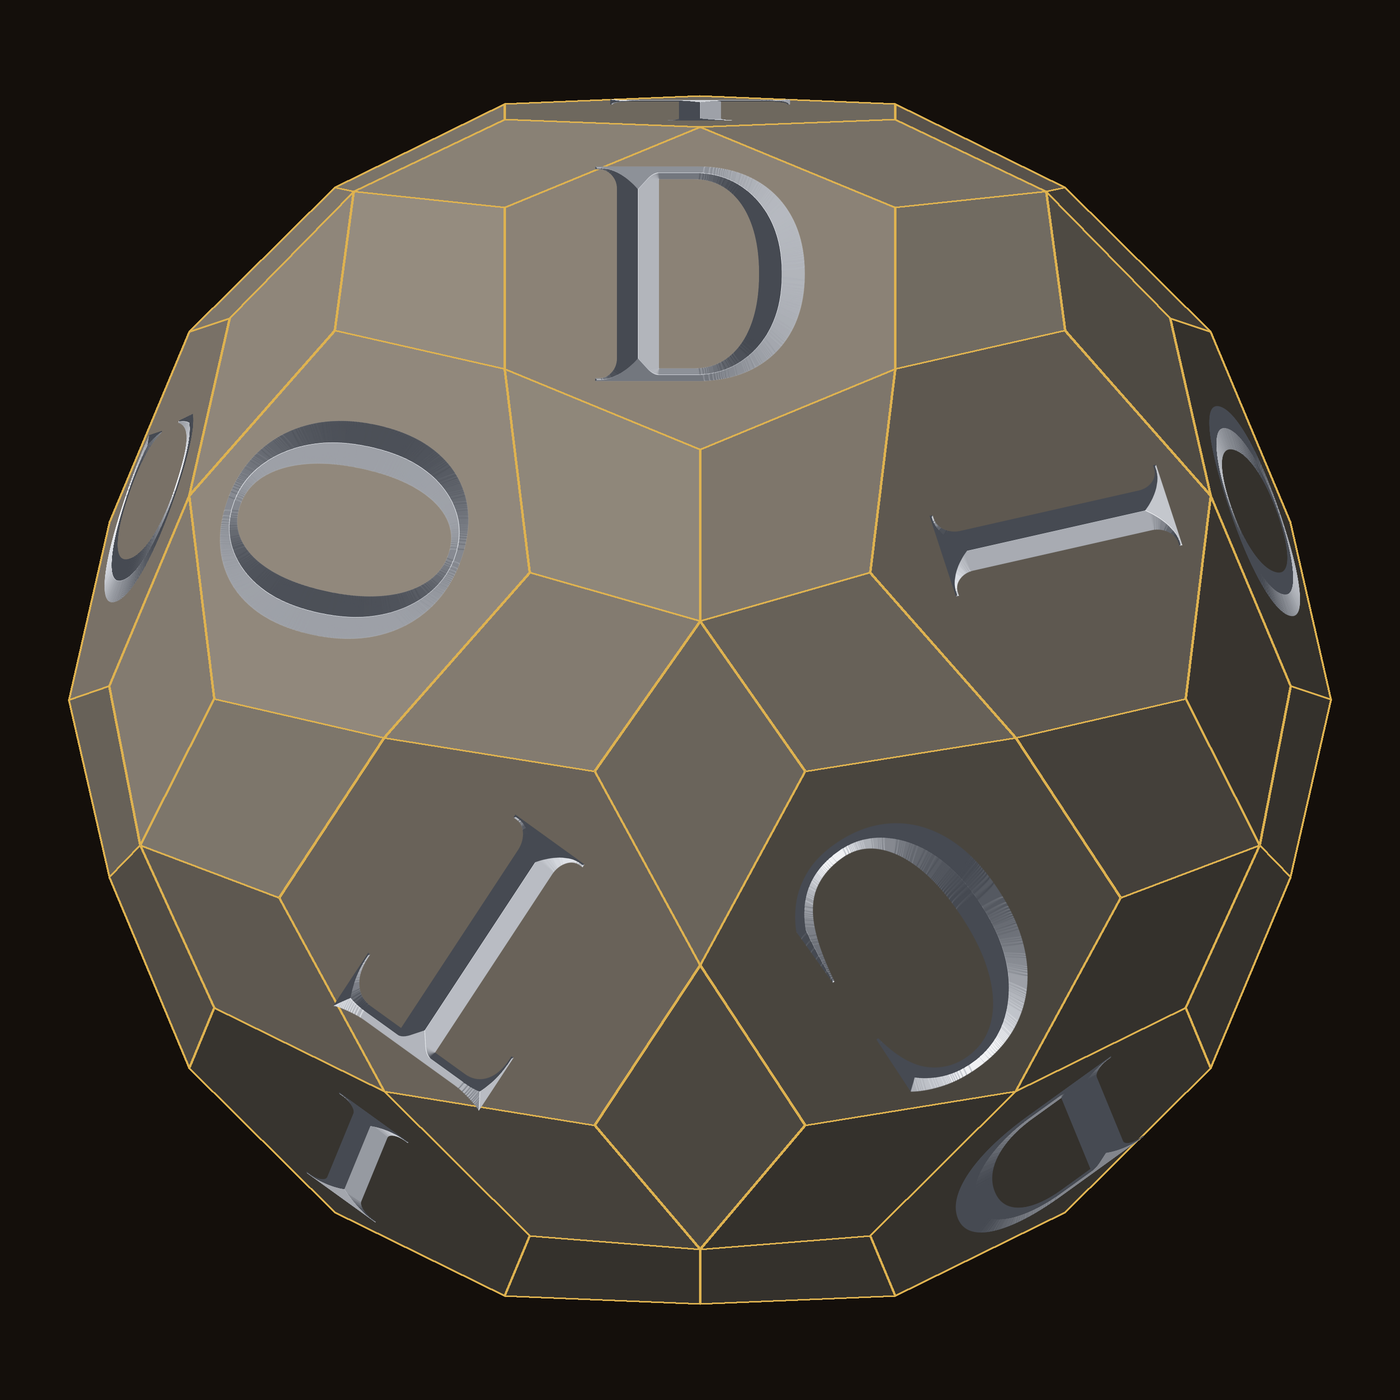
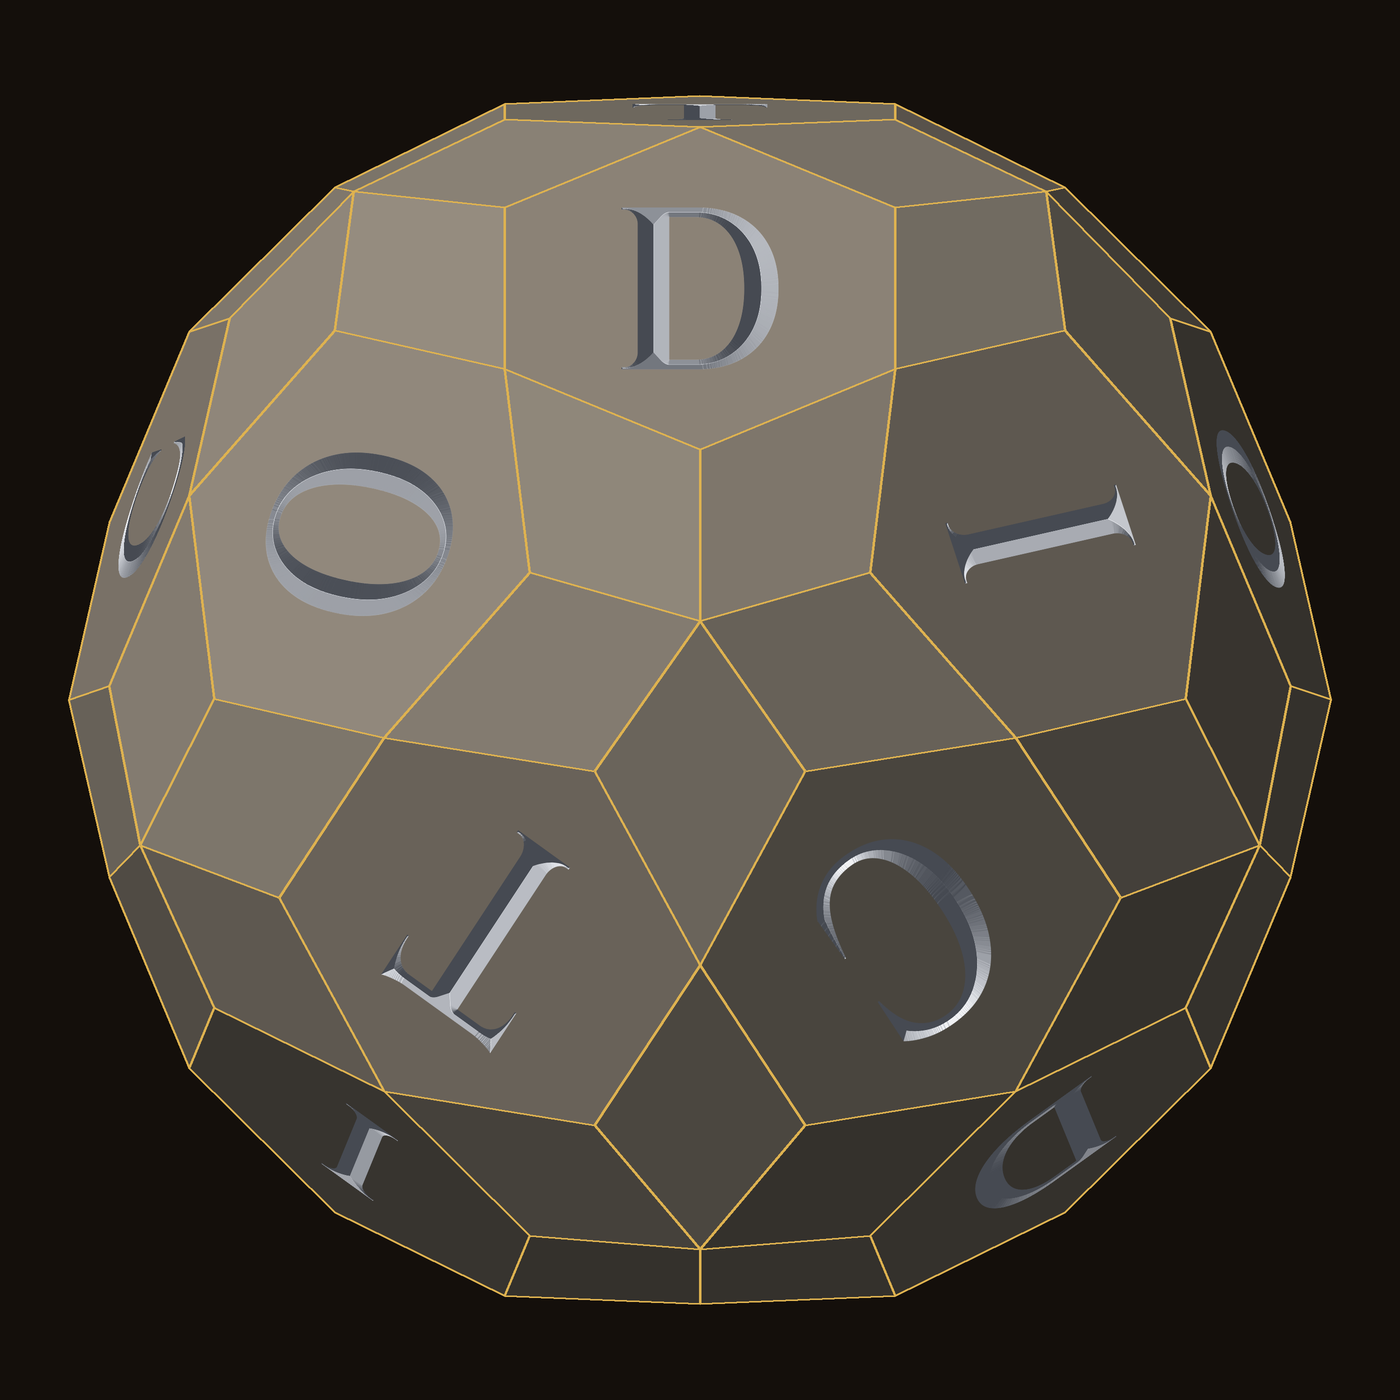
OG letters: smaller, each centred by its own ink in the hexagon (no bobbing) (DICTO)

diff --git a/studies/2026-10-22-dicto-square/og_star_letters.py b/studies/2026-10-22-dicto-square/og_star_letters.py
@@ -1,0 +1,73 @@
+# Can the OG's 20 hexagons be lettered so that round EVERY five-kite star (12 of them) the five hexagons read
+# D-I-C-T-O clockwise (seen from outside), each star a cyclic shift, like the rows of the DICTO square?
+import json, itertools, numpy as np
+G=json.load(open('og-geometry.json')); V=np.array(G['v']); F=G['f']
+deg={}
+for f in F:
+    if len(f)==4:
+        for q in f: deg[q]=deg.get(q,0)+1
+stars=[q for q in deg if deg[q]==5]; assert len(stars)==12
+H=[f for f in F if len(f)==6]; C=np.array([V[f].mean(0) for f in H])
+rings=[]
+for s in stars:
+    a=V[s]/np.linalg.norm(V[s]); d=np.linalg.norm(C/np.linalg.norm(C,axis=1)[:,None]-a,axis=1)
+    ring=list(np.argsort(d)[:5])
+    # clockwise seen from outside (looking along -a)
+    e1=np.cross(a,[0.3,0.5,0.8]); e1/=np.linalg.norm(e1); e2=np.cross(a,e1)
+    ang=[np.arctan2(C[i]@e2,C[i]@e1) for i in ring]
+    ring=[ring[i] for i in np.argsort(ang)[::-1]]       # decreasing angle = clockwise from outside
+    rings.append(ring)
+assert sorted(sum(rings,[]))==sorted(list(range(20))*3)   # every hexagon round exactly 3 stars
+def solve(order):
+    sols=[]
+    def rec(k,L):
+        if k==len(rings): sols.append(dict(L)); return
+        r=rings[k]
+        for sh in range(5):
+            want={r[i]:order[(i+sh)%5] for i in range(5)}
+            if all(L.get(h,c)==c for h,c in want.items()):
+                L2=dict(L); L2.update(want); rec(k+1,L2)
+    rec(0,{}); return sols
+cw=solve('DICTO'); print('clockwise D-I-C-T-O round every star:', len(cw), 'letterings')
+acw=solve('OTCID'); print('anticlockwise round every star:', len(acw))
+# mixed: each star either way
+def solve_mixed():
+    n=0
+    def rec(k,L):
+        nonlocal n
+        if k==len(rings): n+=1; return
+        r=rings[k]
+        for order in ('DICTO','OTCID'):
+            for sh in range(5):
+                want={r[i]:order[(i+sh)%5] for i in range(5)}
+                if all(L.get(h,c)==c for h,c in want.items()):
+                    L2=dict(L); L2.update(want); rec(k+1,L2)
+    rec(0,{}); return n
+print('each star D-I-C-T-O one way or the other:', solve_mixed())
+# check of the search: letterings where every star merely has all five letters (any order) = 2 compounds x 5! = 240
+def solve_any():
+    n=0
+    def rec(k,L):
+        nonlocal n
+        if k==len(rings): n+=1; return
+        r=rings[k]; fixed={h:L[h] for h in r if h in L}
+        free=[h for h in r if h not in L]; left=[c for c in 'DICTO' if c not in fixed.values()]
+        if len(set(fixed.values()))<len(fixed): return
+        for p in itertools.permutations(left):
+            L2=dict(L); L2.update(dict(zip(free,p))); rec(k+1,L2)
+    rec(0,{}); return n
+print('check, every star has all five letters:', solve_any())
+# which orders do occur round the stars in the compound lettering?
+sol=[]
+def rec(k,L):
+    if sol: return
+    if k==len(rings): sol.append(L); return
+    r=rings[k]; fixed={h:L[h] for h in r if h in L}; free=[h for h in r if h not in L]; left=[c for c in 'DICTO' if c not in fixed.values()]
+    if len(set(fixed.values()))<len(fixed): return
+    for p in itertools.permutations(left):
+        L2=dict(L); L2.update(dict(zip(free,p))); rec(k+1,L2)
+rec(0,{})
+L=sol[0]
+for r in rings:
+    w=''.join(L[h] for h in r); i=w.index('D'); print(w[i:]+w[:i], end='  ')
+print()

diff --git a/studies/2026-10-22-dicto-square/og_letters.py b/studies/2026-10-22-dicto-square/og_letters.py
@@ -54,6 +54,7 @@ FONT=os.path.join(here,'Cinzel.ttf')
 def carve_tile(ch,px):
     f=ImageFont.truetype(FONT,int(px*0.78)); f.set_variation_by_name('Bold')
     m=Image.new('L',(px,px),0); ImageDraw.Draw(m).text((px/2,px/2),ch,font=f,fill=255,anchor='mm')
+    x0,y0,x1,y1=m.getbbox(); m=m.transform(m.size,Image.AFFINE,(1,0,(x0+x1)/2-px/2,0,1,(y0+y1)/2-px/2))   # centre the letter's ink
     M=np.array(m)/255.0; ins=M>0.5
     dist=ndimage.gaussian_filter(ndimage.distance_transform_edt(ins),0.8)
     gy,gx=np.gradient(dist); return M,gx,gy
@@ -79,7 +80,7 @@ def render(img,cx,cy,rad,SS=2):
             c=V[f].mean(0); ax_=AXIS; rad=c-ax_*(c@ax_); Vv=rad-n*(rad@n); Vv/=np.linalg.norm(Vv); U=np.cross(Vv,n)
             r=np.linalg.norm(V[f]-c,axis=1).min()            # inradius-ish
             px=int(2*r*s*1.2); M,gx,gy=carve_tile(LET[tuple(f)],px)
-            hx,hy=r*0.8,r*1.22                                   # elongated Trajan forms: tall and narrow
+            hx,hy=r*0.6,r*0.92                                   # elongated Trajan forms: tall and narrow
             gx=gx*(hy/hx)
             k=1.6; nl=np.dstack([gx*k,-gy*k,np.ones_like(gx)]); nl/=np.linalg.norm(nl,axis=2,keepdims=True)
             nw=nl[...,0:1]*U+nl[...,1:2]*Vv+nl[...,2:3]*n           # groove normals in the world
